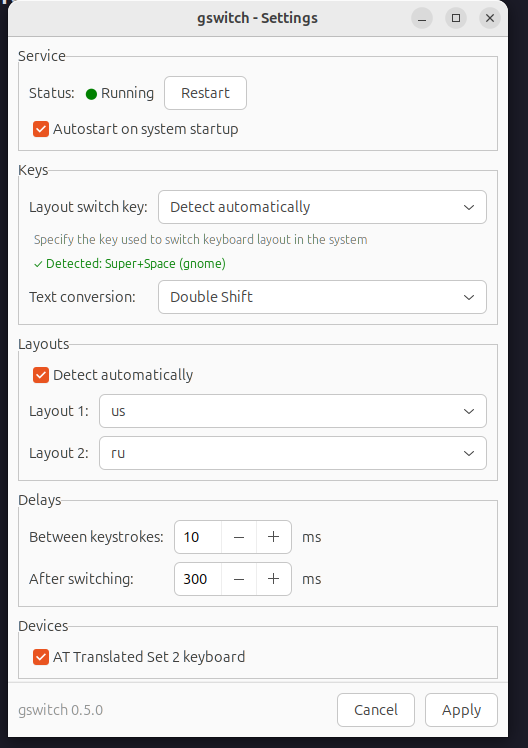
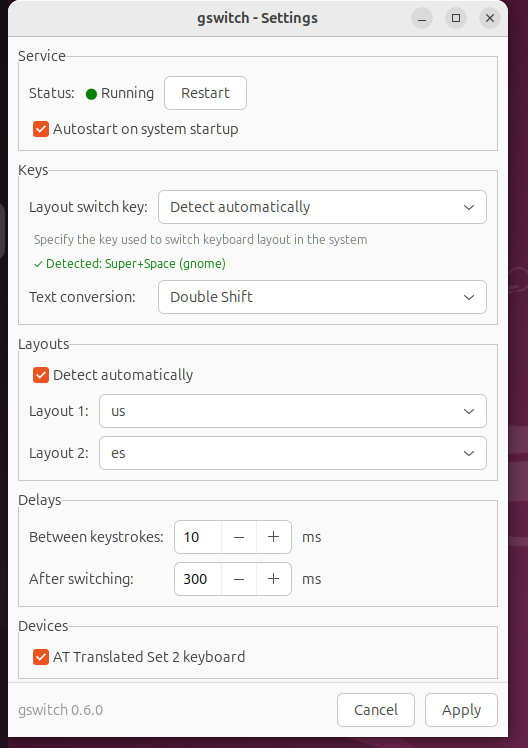
docs: align settings screenshot with Spanish demo

Changed region(s): [[0.0, 0.0, 1.0, 1.0], [0.0, 0.2767, 0.0303, 0.3382], [0.2121, 0.5842, 0.2424, 0.615]]

diff --git a/README.md b/README.md
@@ -159,7 +159,7 @@ settings window (trigger key capture, delays, service start/stop). It controls
 the daemon through `systemctl --user`; polkit is used only when writing the
 system config.
 
-<img src="assets/tray-settings.png" width="400" alt="gswitch tray settings window">
+<img src="assets/tray-settings.png" width="400" alt="gswitch settings with US and Spanish layouts">
 
 To disable its autostart, create `~/.config/autostart/gswitch-tray.desktop` containing:
 
